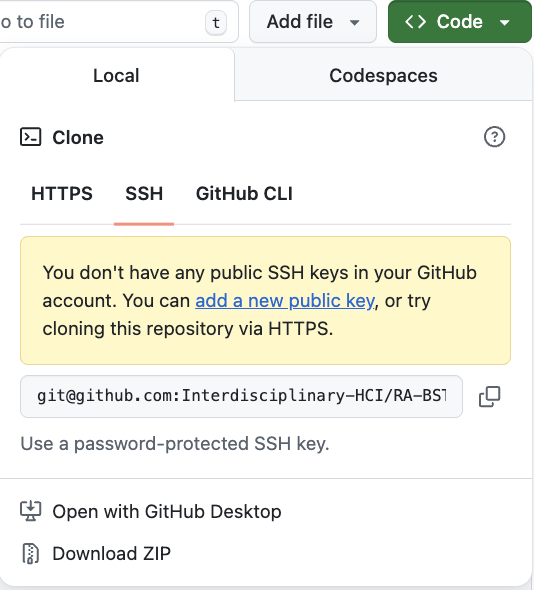
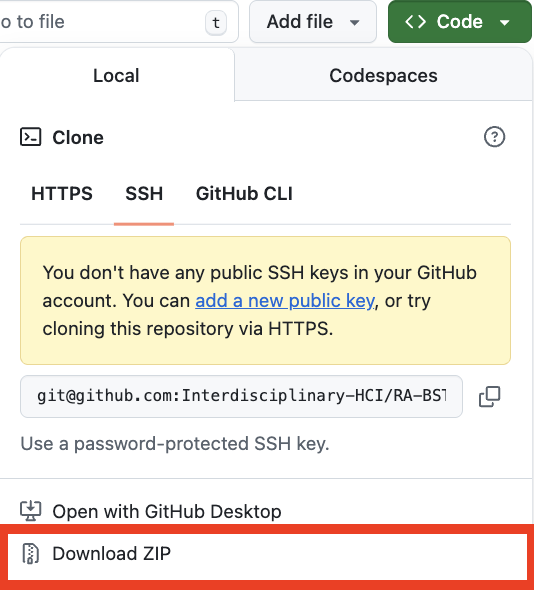
updated readme.md to include more info

Changed region(s): [[0.0, 0.8847, 1.0, 1.0]]

diff --git a/README.md b/README.md
@@ -2,15 +2,15 @@
 
 ## Retrieval-Augmented Bioinformatics Software Tutorial Supporting Chatbot
 
-_Last Updated: 2025-09-22 (using Groq Client)_
+_Last Updated: 2025-09-23 (using Groq Client)_
 
 _Tested on: Apple M1 Pro 16GB Sequoia 15.7_
 
 ## Contributors
 
-- Hannah Kim [@hannahkimincompbio](https://github.com/hannahkimincompbio) (maintainer)
-- Minh Doan [@Dwanky-y](https://www.github.com/Dwanky-y)
-- Rahad Arman Nabid [@rahadarmannabid](https://github.com/rahadarmannabid)
+- [Hannah Kim](https://github.com/hannahkimincompbio) (maintainer)
+- [Minh Doan](https://www.github.com/Dwanky-y)
+- [Rahad Arman Nabid](https://github.com/rahadarmannabid)
 
 ## Installation
 
@@ -22,13 +22,11 @@ git clone https://github.com/Interdisciplinary-HCI/RA-BSTS.git
 
 **OR**
 
-Download Zip file and unzip the file.
+Download ZIP file and unzip the file.
 
-![Download Zip file](./Download%20Zip.png)
+![Download ZIP file](./Download%20ZIP.png)
 
-2. Install `Node.js` and `npm`.
-
-Follow instructions here: https://docs.npmjs.com/downloading-and-installing-node-js-and-npm
+2. Install `Node.js` and `npm`. Follow instructions here: https://docs.npmjs.com/downloading-and-installing-node-js-and-npm
 
 3. Install package requirements from `package-lock.json`.
 
@@ -66,7 +64,7 @@ Have FOUR tabs open in the terminal to observe each process.
 
 ```
 // 1. Chromadb tab: Make sure docker is running in the background before.
-RA-BSTS/backend % docker run -p 8000:8000 -v </absolute/path/on/your/machine>:/data ghcr.io/chroma-core/chroma:latest
+docker run -p 8000:8000 -v </absolute/path/on/your/machine>:/data ghcr.io/chroma-core/chroma:latest
 ```
 
 - example:
@@ -77,15 +75,23 @@ docker run -p 8000:8000 -v /Users/Palindrome/Documents/project_gits/RA-BSTS/back
 
 ```
 // 2. ollama tab
-RA-BSTS/backend % ollama serve
+ollama serve
 ```
 
 ```
-// 3. Backend tab
-RA-BSTS/backend % node server.js
+// 3. Frontend tab: Once you run this line, the web app can be viewed on the browser at 'http://localhost:5173/'
+cd RA-BSTS
+npm run dev
 ```
 
 ```
-// 4. Frontend tab: Once you run this line, the web app can be viewed on the browser at 'http://localhost:5173/'
-RA-BSTS % npm run dev
+// 4. Backend tab
+cd backend
+node server.js
 ```
+
+<!-- node server.js > "pid_serverlog.log" -->
+
+## References
+
+- [BioGenie: BioInformatics Software Tutorial Chatbot S2025 Capstone Project](https://github.com/Capstone-Projects-2025-Spring/project-003-bioinformatics-chatbot)
